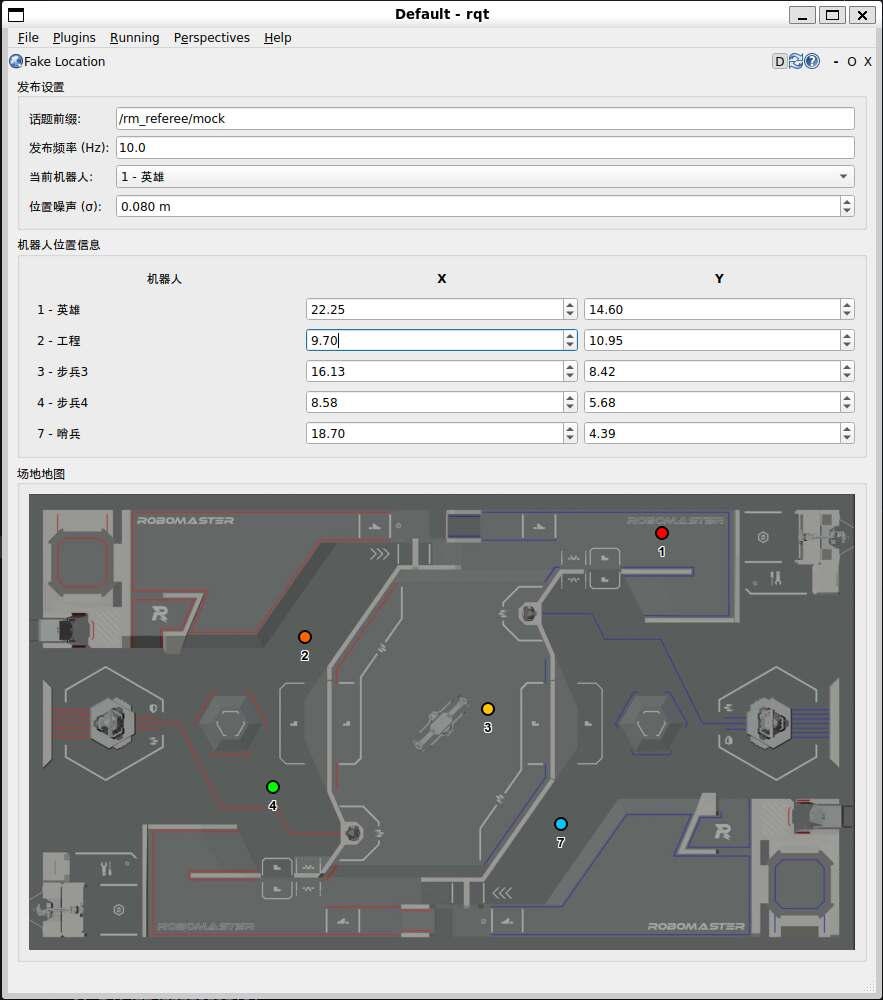
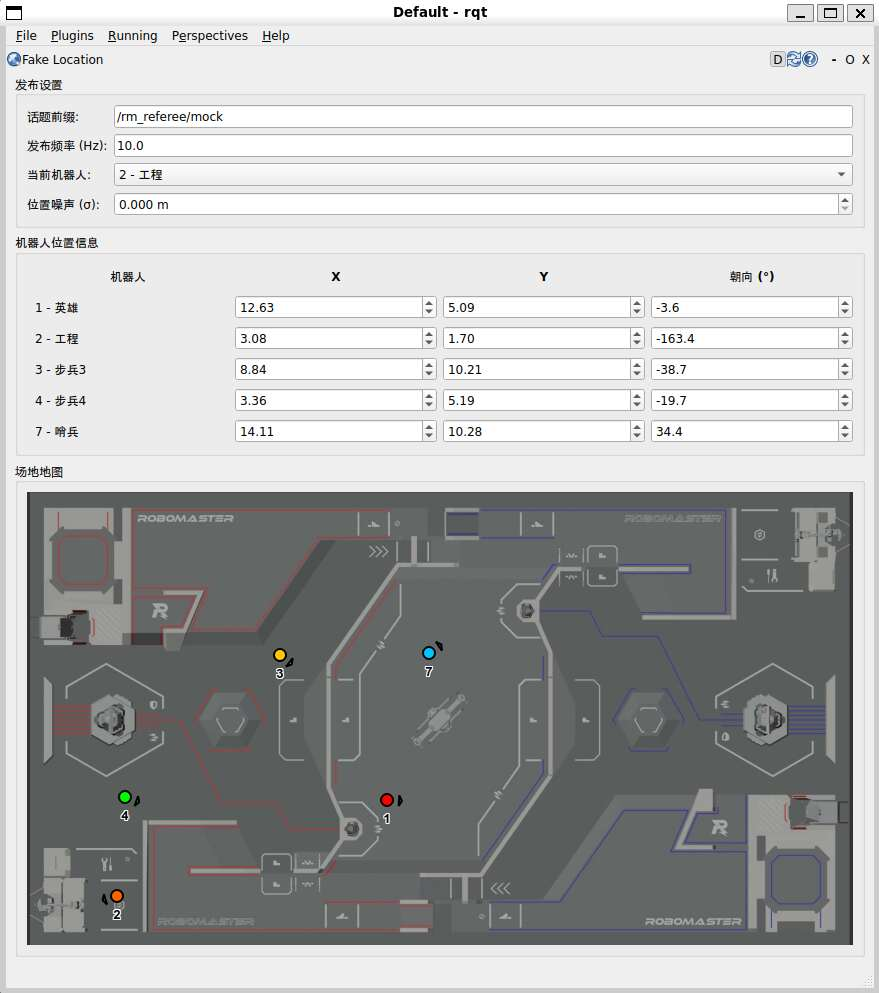
feat: 补齐fake location的发布机器人朝向的功能

diff --git a/rm_referee_mock/rm_referee_mock/fake_location_widget.py b/rm_referee_mock/rm_referee_mock/fake_location_widget.py
@@ -1,5 +1,6 @@
 #!/usr/bin/env python3
 
+import math
 from os import path
 
 from PyQt5.QtWidgets import (
@@ -37,14 +38,15 @@ class MapWidget(QWidget):
 
         # Initialize robot positions (in field coordinates)
         self.robot_positions = {
-            'hero': {'x': 17.5, 'y': 5.0},
-            'engineer': {'x': 15.0, 'y': 3.0},
-            'standard_3': {'x': 15.0, 'y': 7.0},
-            'standard_4': {'x': 12.0, 'y': 5.0},
-            'sentry': {'x': 20.0, 'y': 5.0},
+            'hero': {'x': 17.5, 'y': 5.0, 'angle': 0.0},
+            'engineer': {'x': 15.0, 'y': 3.0, 'angle': 0.0},
+            'standard_3': {'x': 15.0, 'y': 7.0, 'angle': 0.0},
+            'standard_4': {'x': 12.0, 'y': 5.0, 'angle': 0.0},
+            'sentry': {'x': 20.0, 'y': 5.0, 'angle': 0.0},
         }
 
         self.dragging_robot = None
+        self.dragging_angle = None  # For right-click angle dragging
         self.setMinimumSize(400, 400)
         self._scaled_rect = QRect()  # Store the actual rendered map rectangle
 
@@ -155,6 +157,41 @@ class MapWidget(QWidget):
             painter.setBrush(robot_info['color'])
             painter.drawEllipse(QPoint(widget_x, widget_y), radius, radius)
 
+            # Draw direction triangle
+            angle_rad = math.radians(pos['angle'])
+            triangle_distance = 15  # Distance from robot center to triangle
+            triangle_size = 6
+            
+            # Calculate triangle tip position
+            tip_x = widget_x + triangle_distance * math.cos(angle_rad)
+            tip_y = widget_y - triangle_distance * math.sin(angle_rad)
+            
+            # Calculate triangle base points (perpendicular to direction)
+            perp_angle1 = angle_rad + math.pi * 2/3
+            perp_angle2 = angle_rad - math.pi * 2/3
+            
+            base1_x = tip_x + triangle_size * math.cos(perp_angle1)
+            base1_y = tip_y - triangle_size * math.sin(perp_angle1)
+            base2_x = tip_x + triangle_size * math.cos(perp_angle2)
+            base2_y = tip_y - triangle_size * math.sin(perp_angle2)
+            
+            # Draw triangle with same color as robot
+            from PyQt5.QtGui import QPolygonF
+            from PyQt5.QtCore import QPointF
+            triangle = QPolygonF([
+                QPointF(tip_x, tip_y),
+                QPointF(base1_x, base1_y),
+                QPointF(base2_x, base2_y)
+            ])
+            
+            # Highlight if dragging angle
+            if self.dragging_angle == robot_key:
+                painter.setPen(QPen(QColor(255, 255, 0), 3))
+            else:
+                painter.setPen(QPen(QColor(0, 0, 0), 2))
+            painter.setBrush(robot_info['color'])
+            painter.drawPolygon(triangle)
+
             # Draw robot ID/name below the dot
             painter.setPen(QPen(QColor(255, 255, 255), 3))  # White outline
             font = QFont("Arial", 10, QFont.Bold)
@@ -175,10 +212,10 @@ class MapWidget(QWidget):
             painter.drawText(text_rect, Qt.AlignCenter, text)
 
     def mousePressEvent(self, event: QMouseEvent):
-        """Handle mouse press to start dragging a robot"""
+        """Handle mouse press to start dragging a robot or angle"""
+        pos = event.pos()
+        
         if event.button() == Qt.LeftButton:
-            pos = event.pos()
-
             # Check if clicked on any robot
             for robot_key in self.ROBOTS.keys():
                 robot_pos = self.robot_positions[robot_key]
@@ -190,14 +227,20 @@ class MapWidget(QWidget):
                 dy = pos.y() - widget_y
                 distance = (dx * dx + dy * dy) ** 0.5
 
-                if distance <= 10:  # Click threshold
+                # Triangle is at distance ~15 from center
+                # Priority: triangle area for angle dragging, then center for position dragging
+                if 8 <= distance <= 25:  # Click threshold for triangle area
+                    self.dragging_angle = robot_key
+                    break
+                elif distance <= 10:  # Click threshold for robot center
                     self.dragging_robot = robot_key
                     break
 
     def mouseMoveEvent(self, event: QMouseEvent):
-        """Handle mouse move to drag robot"""
+        """Handle mouse move to drag robot or angle"""
+        pos = event.pos()
+        
         if self.dragging_robot:
-            pos = event.pos()
             field_x, field_y = self.widget_to_field(pos.x(), pos.y())
             self.robot_positions[self.dragging_robot]['x'] = field_x
             self.robot_positions[self.dragging_robot]['y'] = field_y
@@ -209,11 +252,34 @@ class MapWidget(QWidget):
                     parent.update_position_display()
                     break
                 parent = parent.parent()
+        
+        elif self.dragging_angle:
+            # Calculate angle from robot center to mouse position
+            robot_pos = self.robot_positions[self.dragging_angle]
+            widget_x, widget_y = self.field_to_widget(
+                robot_pos['x'], robot_pos['y'])
+            
+            dx = pos.x() - widget_x
+            dy = widget_y - pos.y()  # Flip y because widget y increases downward
+            
+            # Calculate angle in degrees (0 = right, 90 = up, counter-clockwise)
+            angle_deg = math.degrees(math.atan2(dy, dx))
+            
+            self.robot_positions[self.dragging_angle]['angle'] = angle_deg
+            self.update()
+            # Notify parent widget to update angle display
+            parent = self.parent()
+            while parent:
+                if isinstance(parent, FakeLocationWidget):
+                    parent.update_position_display()
+                    break
+                parent = parent.parent()
 
     def mouseReleaseEvent(self, event: QMouseEvent):
         """Handle mouse release to stop dragging"""
         if event.button() == Qt.LeftButton:
             self.dragging_robot = None
+            self.dragging_angle = None
             self.update()
 
     def get_robot_positions(self):
@@ -283,7 +349,7 @@ class FakeLocationWidget(QWidget):
         position_layout = QGridLayout()
 
         # Create header labels
-        header_labels = ["机器人", "X", "Y"]
+        header_labels = ["机器人", "X", "Y", "朝向 (°)"]
         for col, text in enumerate(header_labels):
             label = QLabel(text)
             label.setStyleSheet("font-weight: bold; padding: 5px;")
@@ -330,8 +396,21 @@ class FakeLocationWidget(QWidget):
             )
             position_layout.addWidget(y_spinbox, row, 2)
 
+            # Angle spinbox
+            angle_spinbox = QDoubleSpinBox()
+            angle_spinbox.setRange(-180.0, 180.0)
+            angle_spinbox.setDecimals(1)
+            angle_spinbox.setSingleStep(1.0)
+            angle_spinbox.setValue(self.map_widget.robot_positions[robot_key]['angle'])
+            angle_spinbox.setWrapping(True)  # Allow wrapping from 180 to -180
+            angle_spinbox.valueChanged.connect(
+                lambda value, key=robot_key: self._on_angle_spinbox_changed(
+                    key, value)
+            )
+            position_layout.addWidget(angle_spinbox, row, 3)
+
             # Store spinboxes for later updates
-            self.robot_spinboxes[robot_key] = {'x': x_spinbox, 'y': y_spinbox}
+            self.robot_spinboxes[robot_key] = {'x': x_spinbox, 'y': y_spinbox, 'angle': angle_spinbox}
 
         position_group.setLayout(position_layout)
         main_layout.addWidget(position_group, 0)  # stretch=0, fixed size
@@ -358,10 +437,13 @@ class FakeLocationWidget(QWidget):
             pos = positions[robot_key]
             spinboxes['x'].blockSignals(True)
             spinboxes['y'].blockSignals(True)
+            spinboxes['angle'].blockSignals(True)
             spinboxes['x'].setValue(pos['x'])
             spinboxes['y'].setValue(pos['y'])
+            spinboxes['angle'].setValue(pos['angle'])
             spinboxes['x'].blockSignals(False)
             spinboxes['y'].blockSignals(False)
+            spinboxes['angle'].blockSignals(False)
 
     def _on_x_spinbox_changed(self, robot_key, value):
         """Handle X spinbox value change"""
@@ -371,6 +453,11 @@ class FakeLocationWidget(QWidget):
     def _on_y_spinbox_changed(self, robot_key, value):
         """Handle Y spinbox value change"""
         self.map_widget.robot_positions[robot_key]['y'] = value
+        self.map_widget.update()
+
+    def _on_angle_spinbox_changed(self, robot_key, value):
+        """Handle angle spinbox value change"""
+        self.map_widget.robot_positions[robot_key]['angle'] = value
         self.map_widget.update()
 
     def get_topic_prefix(self):
@@ -405,7 +492,7 @@ class FakeLocationWidget(QWidget):
         return {
             'x': current_pos['x'],
             'y': current_pos['y'],
-            'angle': 0.0  # TODO: Could add angle control if needed
+            'angle': math.radians(current_pos['angle'])  # Convert degrees to radians
         }
 
     def get_ground_robot_position_data(self):

diff --git a/README.md b/README.md
@@ -1,6 +1,6 @@
 # rm_referee_ros2
 
-RoboMaster 裁判系统的 ROS2 驱动，用于简化 ROS2 下和裁判系统的数据交互。
+本项目包含了一些在 ROS2 下开发 RM 的裁判系统必要的一些基建。
 
 仓库的分支/tag 对应官方发布的协议文件版本，带 `legacy-` 前缀的 tag 为 26 赛季“串口协议”改为“通信协议”之前的版本，不带 `legacy-` 前缀的 tag 为 26 赛季改版为“通信协议”之后的版本。例如：
 
@@ -10,7 +10,7 @@ RoboMaster 裁判系统的 ROS2 驱动，用于简化 ROS2 下和裁判系统的
 
 `main`分支为最新开发版本，可能包含不稳定的改动。
 
-## Build status
+## Build test matrix
 
 <table>
 <tr>
@@ -115,7 +115,9 @@ git clone --recursive https://github.com/XDU-IRobot/rm_referee_ros2.git
 
 2. 向哨兵机器人发送所有己方地面机器人位置的数据。
 
-为了方便利用这些信息，本项目包含了一个 `tf_publisher` 节点。它订阅 `rm_referee_msgs/RobotPos` 和 `rm_referee_msgs/GroundRobotPosition` 类型的话题，并将解析出的机器人位置发布到 tf 上，方便在 RViz 等工具中进行可视化。
+为了方便利用这些信息，本项目包含一个 `tf_publisher` 节点。它订阅 `rm_referee_msgs/RobotPos` 和 `rm_referee_msgs/GroundRobotPosition` 类型的话题，并将其中的机器人位置信息发布到 tf 上：
+
+![tf_publisher](docs/tf_publisher.jpg)
 
 具体的，节点会发布以下变换：
 
@@ -124,6 +126,10 @@ git clone --recursive https://github.com/XDU-IRobot/rm_referee_ros2.git
 - `<root_frame_id>` -> `<child_frame_prefix>engineer`：己方工程机器人位置。
 - `<root_frame_id>` -> `<child_frame_prefix>standard_3`：己方步兵 3 号机器人位置。
 - `<root_frame_id>` -> `<child_frame_prefix>standard_4`：己方步兵 4 号机器人位置。
+
+> [!NOTE]  
+> 根据裁判系统协议定义，只有“本机器人位置”(`rm_referee_msgs/RobotPos`)消息包含朝向信息。
+> TF Publisher 对此的处理方式是，`map->robot_self` 这个变换包含朝向，其他变换无朝向信息（即朝向为 0）。
 
 同理，复制一份`rm_referee/launch/tf_publisher.launch.py`到自己的项目里，按需修改参数然后运行即可。可供配置的参数如下表：
 
@@ -136,6 +142,6 @@ git clone --recursive https://github.com/XDU-IRobot/rm_referee_ros2.git
 
 ## Mock
 
-`rm_referee_mock`包里提供了一些 Mock 组件，可以模拟裁判系统的数据发送行为，方便在没有真实裁判系统的情况下进行开发和测试。
+`rm_referee_mock`包里提供了一些 Mock 组件，用来模拟裁判系统的数据发送行为，方便在没有真实裁判系统或者不便搭建环境的情况下进行开发和测试。
 
-具体的使用方法请参考 [`rm_referee_mock/README.md`](rm_referee_mock/README.md)。
+使用方法参见 [`rm_referee_mock/README.md`](rm_referee_mock/README.md)。

diff --git a/rm_referee_mock/README.md b/rm_referee_mock/README.md
@@ -1,14 +1,16 @@
 # rm_referee_mock
 
-这是 `rm_referee_ros2` 仓库下的一个子模块，提供了一些用于测试的 Mock 组件，可以模拟裁判系统的数据发送行为，方便在没有真实裁判系统的情况下进行开发和测试。
+这是 `rm_referee_ros2` 所属的一个子模块，提供了一些用于测试的 Mock 组件，用来模拟裁判系统的数据发送行为，方便在没有真实裁判系统或者不便搭建环境的情况下进行开发和测试。
 
-目前为止所有的 Mock 组件均以 rqt 插件的形式实现，使用方法为编译并 source 工作空间后，在 rqt 中启动对应的插件即可。
+目前为止所有的 Mock 组件均以 rqt 插件的形式实现，编译并 source 工作空间后，在 rqt 中启动对应的插件即可使用。
 
 ## Keyboard Publisher
 
 ![keyboard_publisher_rqt](../docs/keyboard_publisher_rqt.jpg)
 
 模拟图传链路的键鼠数据发送功能。Keyboard Publisher 会读取键盘输入，并将输入的数据封装成 `rm_referee_msgs/RemoteControl` 消息发布到指定话题上。
+
+> TODO: 鼠标
 
 ## Dart Client
 
@@ -23,7 +25,10 @@
 
 ![fake_location_rqt](../docs/fake_location_rqt.jpg)
 
-模拟 UWB 定位数据。拖动 rqt 界面上对应的机器人到地图上的位置，或者编辑对应机器人的 X、Y 坐标，即可改变该机器人在场地内的位置。Fake Location 会根据以上数据发布假的 `rm_referee_msgs/RobotPos` 和 `rm_referee_msgs/GroundRobotPosition` 消息。另外，Fake Location 还支持给实际发布的假数据添加高斯噪声，以模拟真实环境下的定位误差。可以通过调整界面上的“位置噪声”参数来控制噪声的大小。
+模拟 UWB 定位数据。rqt 界面上每个小圆点代表一个机器人，拖动圆点可以改变机器人的位置，拖动圆点周围的小三角可以改变机器人的朝向。如果需要更精确的数值也可以直接直接输入位置和朝向数据。Fake Location 会根据以上数据构造发布 `rm_referee_msgs/RobotPos` 和 `rm_referee_msgs/GroundRobotPosition` 消息。另外，Fake Location 还支持给实际发布的假数据添加高斯噪声，以模拟真实环境下的定位误差。通过调整界面上的“位置噪声”参数可以控制噪声的大小。
+
+> [!NOTE]  
+> 根据裁判系统协议定义，只有“本机器人位置”(`rm_referee_msgs/RobotPos`)消息包含朝向信息。
 
 > TODO: 通过 0x0301 多机通信消息模拟雷达发送的敌方机器人位置数据
 
